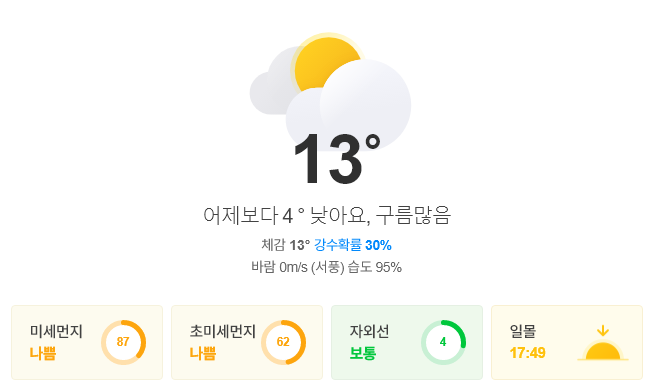
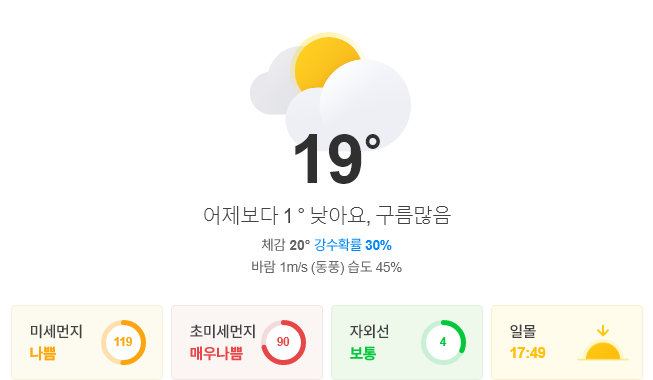
update result

diff --git a/README.md b/README.md
@@ -1,13 +1,13 @@
-##  2020-10-20 09:16:48   화요일 
-##### 날씨   -   어제보다 4 ° 낮아요, 구름많음
+##  2020-10-20 12:07:29   화요일 
+##### 날씨   -   어제보다 1 ° 낮아요, 구름많음
 <center><img src="../img/naver_weather_week.png"></center>
 ----
 ----
 ##### 지수
 <table border="1" bordercolor="blue" align = "center" >
 <tr align = "right" > <td>Item</td><td>Point</td><td>Diff</td><td>Rate</td><td>Buy</td><td>Sell</td><td>...</td>  </tr>
-<tr align = "right" > <td>KOSPI</td><td>2,348.34</td><td>1.6</td><td><font size="3" color="red" >0.07%</font> </td><td><font size="3" color="black">2,000</font></td><td><font size="3" color="black">3,000</font></td><td>0</td>  </tr>
-<tr align = "right" > <td>KOSDAQ</td><td>822.26</td><td>0.01</td><td><font size="3" color="black" >0.0%</font> </td><td><font size="3" color="black">0</font></td><td><font size="3" color="black">0</font></td><td>0</td>  </tr>
+<tr align = "right" > <td>KOSPI</td><td>2,330.08</td><td>-16.66</td><td><font size="3" color="blue" >-0.71%</font> </td><td><font size="3" color="black">2,000</font></td><td><font size="3" color="black">3,000</font></td><td>0</td>  </tr>
+<tr align = "right" > <td>KOSDAQ</td><td>806.83</td><td>-15.42</td><td><font size="3" color="blue" >-1.88%</font> </td><td><font size="3" color="black">0</font></td><td><font size="3" color="black">0</font></td><td>0</td>  </tr>
 </table>
 ----
 ##### 세계
@@ -16,14 +16,14 @@
 <tr align = "right" > <td>DOW</td><td>28,195.42</td><td>-410.89</td><td><font size="3" color="blue" >-1.44%</font></td><td><font size="3" color="black">0</font></td><td><font size="3" color="black">0</font></td><td>0</td>  </tr>
 <tr align = "right" > <td>NASDAQ</td><td>11,478.88</td><td>-192.68</td><td><font size="3" color="blue" >-1.65%</font></td><td><font size="3" color="black">0</font></td><td><font size="3" color="black">0</font></td><td>0</td>  </tr>
 <tr align = "right" > <td>S&P</td><td>3,426.92</td><td>-56.89</td><td><font size="3" color="blue" >-1.63%</font></td><td><font size="3" color="black">0</font></td><td><font size="3" color="black">0</font></td><td>0</td>  </tr>
-<tr align = "right" > <td>SHANHAI</td><td>3,312.67</td><td>-23.69</td><td><font size="3" color="blue" >-0.71%</font></td><td><font size="3" color="black">0</font></td><td><font size="3" color="black">0</font></td><td>0</td>  </tr>
+<tr align = "right" > <td>SHANHAI</td><td>3,296.13</td><td>-16.54</td><td><font size="3" color="blue" >-0.5%</font></td><td><font size="3" color="black">0</font></td><td><font size="3" color="black">0</font></td><td>0</td>  </tr>
 <tr align = "right" > <td>INDIA</td><td>40,431.6</td><td>448.62</td><td><font size="3" color="red" >1.12%</font></td><td><font size="3" color="black">0</font></td><td><font size="3" color="black">0</font></td><td>0</td>  </tr>
 </table>
 ----
 ##### 시장
 <table border="1" bordercolor="blue" align = "center" >
 <tr align = "right" > <td>Item</td><td>Price</td><td>Diff</td><td>Rate</td><td>Buy</td><td>Sell</td><td>...</td>  </tr>
-<tr align = "right" > <td>USD</td><td>1,140.0</td><td>0.8</td><td><font size="3" color="red">0.07%</font></td><td><font size="3" color="orangered">1,150</font></td><td><font size="3" color="black">0</font></td><td>0</td>  </tr>
+<tr align = "right" > <td>USD</td><td>1,139.0</td><td>-0.9</td><td><font size="3" color="blue">-0.08%</font></td><td><font size="3" color="orangered">1,150</font></td><td><font size="3" color="black">0</font></td><td>0</td>  </tr>
 <tr align = "right" > <td>WTI</td><td>41.06</td><td>-0.06</td><td><font size="3" color="blue">-0.14%</font></td><td><font size="3" color="black">29.0</font></td><td><font size="3" color="black">0</font></td><td>0</td>  </tr>
 <tr align = "right" > <td>GOLD</td><td>1,906.0</td><td>5.6</td><td><font size="3" color="red">0.29%</font></td><td><font size="3" color="black">0</font></td><td><font size="3" color="black">0</font></td><td>0</td>  </tr>
 </table>
@@ -31,23 +31,23 @@
 ##### 주가
 <table border="1" bordercolor="blue" align = "center" >
 <tr align = "right" > <td>Item</td><td>Price</td><td>Diff</td><td>Rate</td><td>Purchased</td><td>Sell</td><td>Buy</td>  </tr>
-<tr align = "right" > <td>한국 전력</td><td>21,300</td><td>-100</td><td><font size="3" color="blue">-0.47%</font></td><td>25,720</td><td><font size="3" color="black">30,000</font></td><td><font size="3" color="black">14,000</font></td>  </tr>
-<tr align = "right" > <td>삼성엔지니어.</td><td>10,850</td><td>-150</td><td><font size="3" color="blue">-1.36%</font></td><td>18,935</td><td><font size="3" color="black">20,000</font></td><td><font size="3" color="black">8,000</font></td>  </tr>
-<tr align = "right" > <td>CJ CGV</td><td>21,500</td><td>-200</td><td><font size="3" color="blue">-0.92%</font></td><td>34,895</td><td><font size="3" color="black">36,000</font></td><td><font size="3" color="black">0</font></td>  </tr>
-<tr align = "right" > <td>아모레퍼시픽</td><td>168,500</td><td>-1,500</td><td><font size="3" color="blue">-0.88%</font></td><td>235,350</td><td><font size="3" color="black">240,000</font></td><td><font size="3" color="black">130,000</font></td>  </tr>
-<tr align = "right" > <td>한화</td><td>25,200</td><td>50</td><td><font size="3" color="red">0.2%</font></td><td>25,550</td><td><font size="3" color="black">30,000</font></td><td><font size="3" color="black">20,000</font></td>  </tr>
-<tr align = "right" > <td>NAVER</td><td>284,500</td><td>-1,500</td><td><font size="3" color="blue">-0.52%</font></td><td>147,200</td><td><font size="3" color="black">400,000</font></td><td><font size="3" color="black">150,000</font></td>  </tr>
-<tr align = "right" > <td>LG 화학우</td><td>322,500</td><td>2,500</td><td><font size="3" color="red">0.78%</font></td><td>202,490</td><td><font size="3" color="black">500,000</font></td><td><font size="3" color="black">200,000</font></td>  </tr>
-<tr align = "right" > <td>스튜디오드래.</td><td>82,400</td><td>-200</td><td><font size="3" color="blue">-0.24%</font></td><td>81,243</td><td><font size="3" color="black">100,000</font></td><td><font size="3" color="black">78,000</font></td>  </tr>
-<tr align = "right" > <td>글로벌럭셔리</td><td>12,800</td><td>-25</td><td><font size="3" color="blue">-0.19%</font></td><td>9,630</td><td><font size="3" color="black">15,000</font></td><td><font size="3" color="black">10,000</font></td>  </tr>
-<tr align = "right" > <td>QV미국IT</td><td>23,720</td><td>-560</td><td><font size="3" color="blue">-2.31%</font></td><td>22,010</td><td><font size="3" color="black">30,000</font></td><td><font size="3" color="black">20,000</font></td>  </tr>
-<tr align = "right" > <td>호텔 신라</td><td>76,600</td><td>-600</td><td><font size="3" color="blue">-0.78%</font></td><td>72,800</td><td><font size="3" color="black">100,000</font></td><td><font size="3" color="black">70,000</font></td>  </tr>
-<tr align = "right" > <td>S-Oil</td><td>57,900</td><td>0</td><td><font size="3" color="black">0.0%</font></td><td>62,842</td><td><font size="3" color="black">100,000</font></td><td><font size="3" color="black">50,000</font></td>  </tr>
-<tr align = "right" > <td>LG전자</td><td>89,200</td><td>100</td><td><font size="3" color="red">0.11%</font></td><td>82,022</td><td><font size="3" color="black">100,000</font></td><td><font size="3" color="black">60,000</font></td>  </tr>
-<tr align = "right" > <td>지역난방공사</td><td>39,150</td><td>-450</td><td><font size="3" color="blue">-1.14%</font></td><td>43,590</td><td><font size="3" color="black">60,000</font></td><td><font size="3" color="black">30,000</font></td>  </tr>
-<tr align = "right" > <td>KOEDX은행</td><td>5,415</td><td>5</td><td><font size="3" color="red">0.09%</font></td><td>5,155</td><td><font size="3" color="black">6,000</font></td><td><font size="3" color="black">4,500</font></td>  </tr>
-<tr align = "right" > <td>삼성 전자우</td><td>53,300</td><td>300</td><td><font size="3" color="red">0.57%</font></td><td>48,250</td><td><font size="3" color="black">56,000</font></td><td><font size="3" color="black">45,000</font></td>  </tr>
-<tr align = "right" > <td>한화에어로스.</td><td>26,100</td><td>100</td><td><font size="3" color="red">0.38%</font></td><td>25,700</td><td><font size="3" color="black">30,000</font></td><td><font size="3" color="black">0</font></td>  </tr>
-<tr align = "right" > <td>한국금융지주</td><td>67,900</td><td>100</td><td><font size="3" color="red">0.15%</font></td><td>61,900</td><td><font size="3" color="black">82,000</font></td><td><font size="3" color="black">60,000</font></td>  </tr>
+<tr align = "right" > <td>한국 전력</td><td>21,000</td><td>-400</td><td><font size="3" color="blue">-1.87%</font></td><td>25,720</td><td><font size="3" color="black">30,000</font></td><td><font size="3" color="black">14,000</font></td>  </tr>
+<tr align = "right" > <td>삼성엔지니어.</td><td>10,750</td><td>-250</td><td><font size="3" color="blue">-2.27%</font></td><td>18,935</td><td><font size="3" color="black">20,000</font></td><td><font size="3" color="black">8,000</font></td>  </tr>
+<tr align = "right" > <td>CJ CGV</td><td>21,300</td><td>-400</td><td><font size="3" color="blue">-1.84%</font></td><td>34,895</td><td><font size="3" color="black">36,000</font></td><td><font size="3" color="black">0</font></td>  </tr>
+<tr align = "right" > <td>아모레퍼시픽</td><td>167,000</td><td>-3,000</td><td><font size="3" color="blue">-1.76%</font></td><td>235,350</td><td><font size="3" color="black">240,000</font></td><td><font size="3" color="black">130,000</font></td>  </tr>
+<tr align = "right" > <td>한화</td><td>24,850</td><td>-300</td><td><font size="3" color="blue">-1.19%</font></td><td>25,550</td><td><font size="3" color="black">30,000</font></td><td><font size="3" color="black">20,000</font></td>  </tr>
+<tr align = "right" > <td>NAVER</td><td>283,000</td><td>-3,000</td><td><font size="3" color="blue">-1.05%</font></td><td>147,200</td><td><font size="3" color="black">400,000</font></td><td><font size="3" color="black">150,000</font></td>  </tr>
+<tr align = "right" > <td>LG 화학우</td><td>318,500</td><td>-1,500</td><td><font size="3" color="blue">-0.47%</font></td><td>202,490</td><td><font size="3" color="black">500,000</font></td><td><font size="3" color="black">200,000</font></td>  </tr>
+<tr align = "right" > <td>스튜디오드래.</td><td>81,900</td><td>-700</td><td><font size="3" color="blue">-0.85%</font></td><td>81,243</td><td><font size="3" color="black">100,000</font></td><td><font size="3" color="black">78,000</font></td>  </tr>
+<tr align = "right" > <td>글로벌럭셔리</td><td>12,745</td><td>-80</td><td><font size="3" color="blue">-0.62%</font></td><td>9,630</td><td><font size="3" color="black">15,000</font></td><td><font size="3" color="black">10,000</font></td>  </tr>
+<tr align = "right" > <td>QV미국IT</td><td>23,600</td><td>-680</td><td><font size="3" color="blue">-2.8%</font></td><td>22,010</td><td><font size="3" color="black">30,000</font></td><td><font size="3" color="black">20,000</font></td>  </tr>
+<tr align = "right" > <td>호텔 신라</td><td>75,900</td><td>-1,300</td><td><font size="3" color="blue">-1.68%</font></td><td>72,800</td><td><font size="3" color="black">100,000</font></td><td><font size="3" color="black">70,000</font></td>  </tr>
+<tr align = "right" > <td>S-Oil</td><td>56,500</td><td>-1,400</td><td><font size="3" color="blue">-2.42%</font></td><td>62,842</td><td><font size="3" color="black">100,000</font></td><td><font size="3" color="black">50,000</font></td>  </tr>
+<tr align = "right" > <td>LG전자</td><td>88,900</td><td>-200</td><td><font size="3" color="blue">-0.22%</font></td><td>82,022</td><td><font size="3" color="black">100,000</font></td><td><font size="3" color="black">60,000</font></td>  </tr>
+<tr align = "right" > <td>지역난방공사</td><td>38,400</td><td>-1,200</td><td><font size="3" color="blue">-3.03%</font></td><td>43,590</td><td><font size="3" color="black">60,000</font></td><td><font size="3" color="black">30,000</font></td>  </tr>
+<tr align = "right" > <td>KOEDX은행</td><td>5,350</td><td>-60</td><td><font size="3" color="blue">-1.11%</font></td><td>5,155</td><td><font size="3" color="black">6,000</font></td><td><font size="3" color="black">4,500</font></td>  </tr>
+<tr align = "right" > <td>삼성 전자우</td><td>53,200</td><td>200</td><td><font size="3" color="red">0.38%</font></td><td>48,250</td><td><font size="3" color="black">56,000</font></td><td><font size="3" color="black">45,000</font></td>  </tr>
+<tr align = "right" > <td>한화에어로스.</td><td>25,600</td><td>-400</td><td><font size="3" color="blue">-1.54%</font></td><td>25,700</td><td><font size="3" color="black">30,000</font></td><td><font size="3" color="black">0</font></td>  </tr>
+<tr align = "right" > <td>한국금융지주</td><td>66,700</td><td>-1,100</td><td><font size="3" color="blue">-1.62%</font></td><td>61,900</td><td><font size="3" color="black">82,000</font></td><td><font size="3" color="black">60,000</font></td>  </tr>
 </table>
 ----
